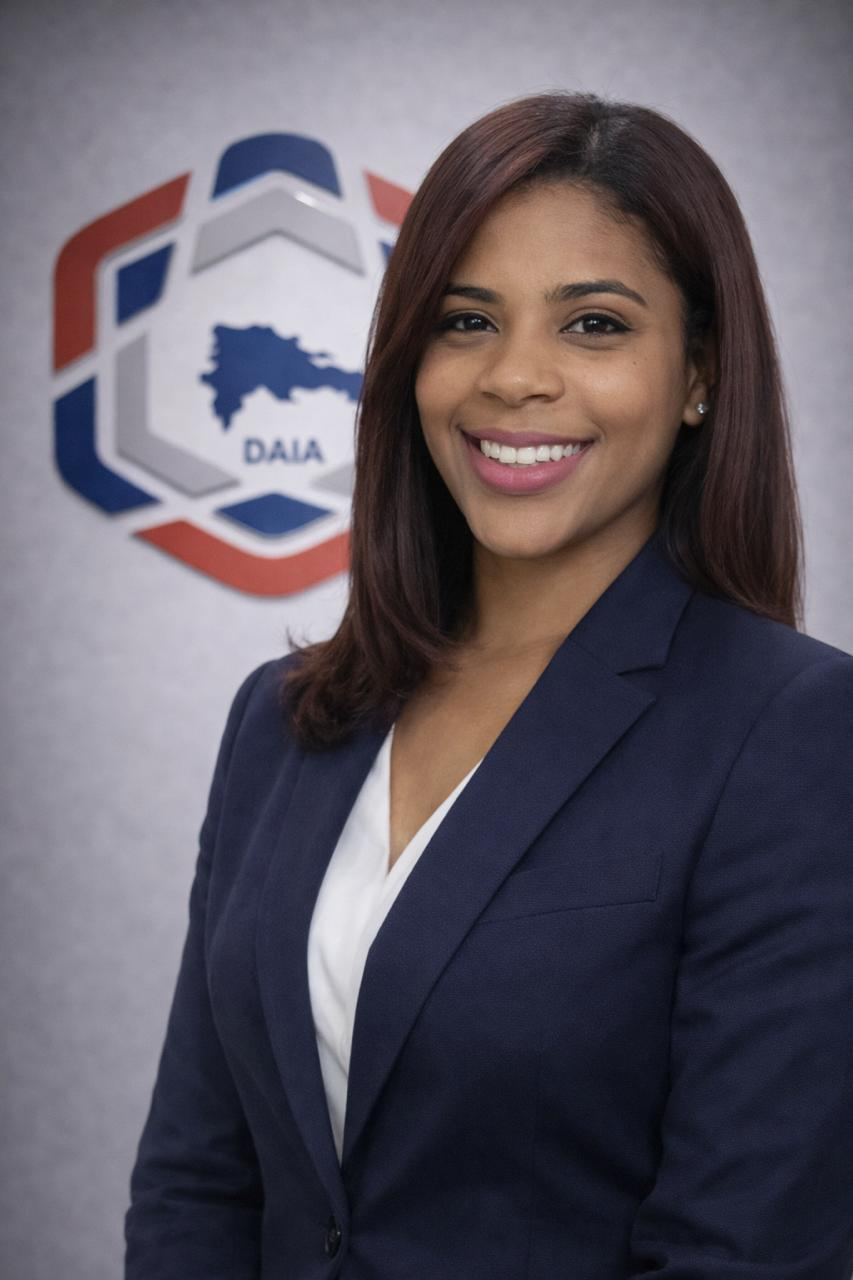
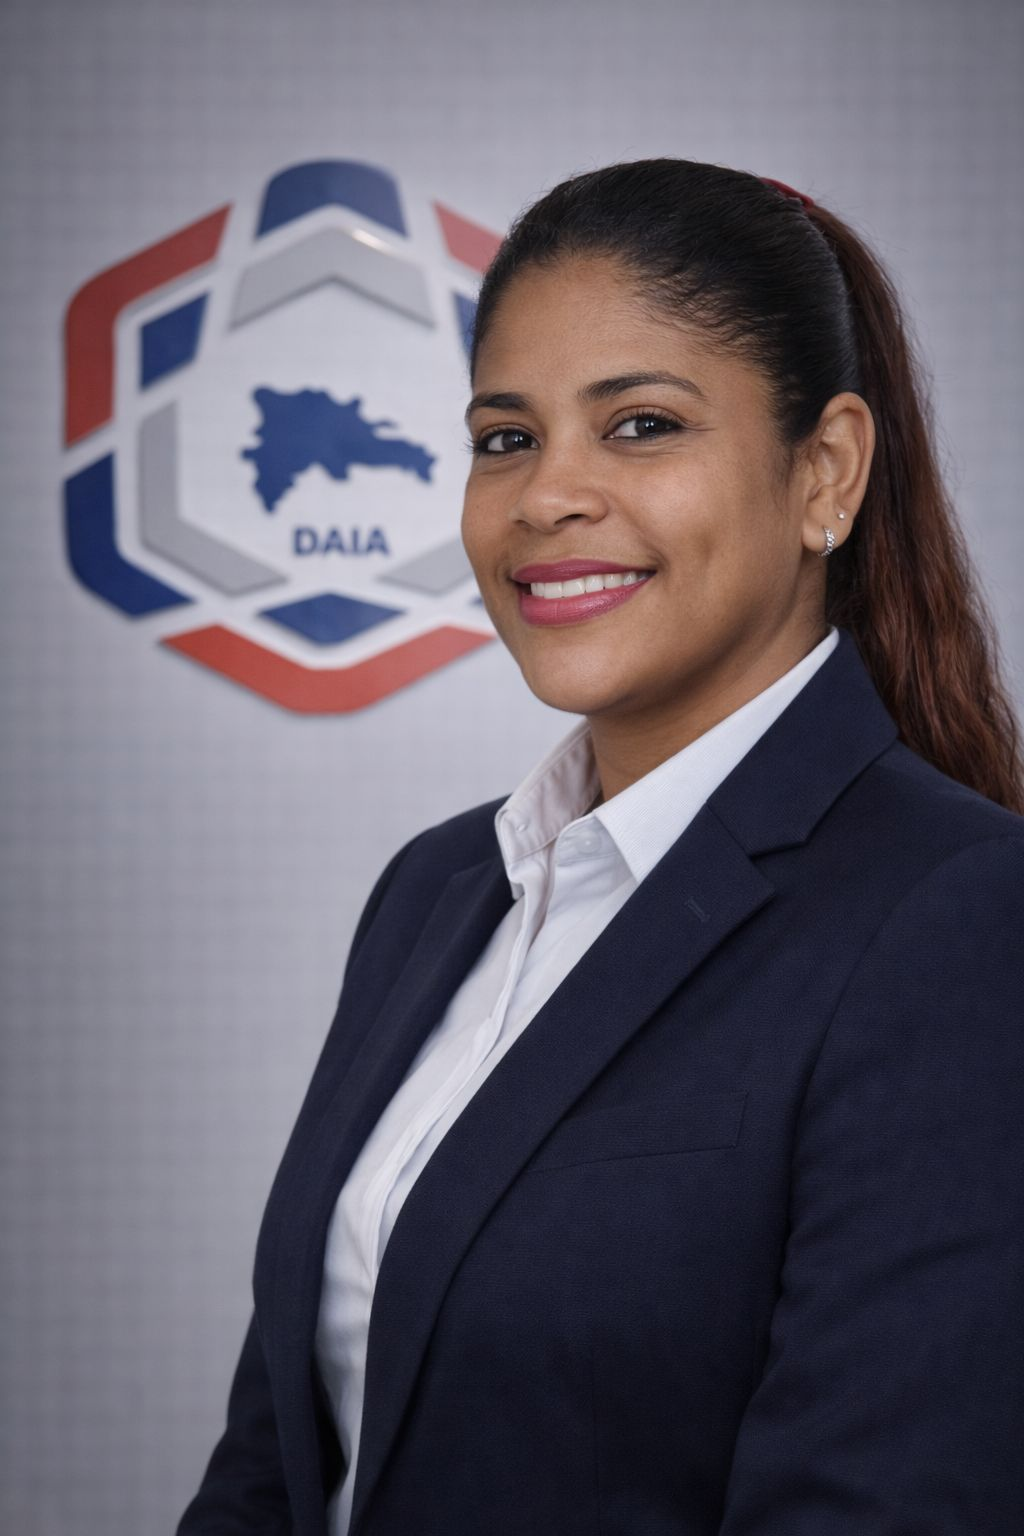
Fix: Small fixes to the landing page

diff --git a/src/components/landing/Header.tsx b/src/components/landing/Header.tsx
@@ -13,6 +13,9 @@ import {
   Brain,
   Newspaper,
   NotebookPen,
+  TreePalm,
+  Earth,
+  ShieldCheck,
 } from "lucide-react";
 import { Link, useLocation } from "react-router-dom";
 import { Button } from "@/components/ui/button";
@@ -78,14 +81,14 @@ const Header = () => {
           label: "Isla Intelligence",
           href: "#",
           description: "Smart Destination Insights",
-          icon: Plane,
+          icon: TreePalm,
           comingSoon: true,
         },
         {
           label: "CulturaConnect",
           href: "#",
           description: "Language Through Real Life",
-          icon: Plane,
+          icon: Earth,
           comingSoon: true,
         },
       ],
@@ -98,13 +101,13 @@ const Header = () => {
           href: "#",
           description: "Data-Driven Property Insights",
           icon: Home,
-          comingSoon: true,
+          comingSoon: Brain,
         },
         {
-          label: "Title Trust DR",
+          label: "TitleTrust DR",
           href: "#",
           description: "Secure Digital Ownership Verification",
-          icon: Home,
+          icon: ShieldCheck,
           comingSoon: true,
         },
       ],
@@ -116,28 +119,28 @@ const Header = () => {
       label: "Partners",
       href: "/partners",
       icon: Home,
-      description: "The light moves faster when we move together.",
+      description: "Building the Future Together",
       comingSoon: false,
     },
     {
       label: "Scholarship",
       href: "#",
       icon: Plane,
-      description: "TBA",
+      description: "Empowering Tomorrow’s Leaders",
       comingSoon: true,
     },
     {
       label: "News",
       href: "#",
       icon: Newspaper,
-      description: "TBA",
+      description: "Updates from DAIA",
       comingSoon: true,
     },
     {
       label: "Blog",
       href: "#",
       icon: NotebookPen,
-      description: "TBA",
+      description: "Insights on AI and Innovation",
       comingSoon: true,
     },
   ];

diff --git a/src/components/landing/Feedback.tsx b/src/components/landing/Feedback.tsx
@@ -4,7 +4,7 @@ import { ScrollAnimation } from "@/hooks/useScrollAnimation";
 
 import alvinNoel from "@/assets/feedback/alvin-noel.jpeg";
 import joseMiguel from "@/assets/feedback/jose-miguel.jpeg";
-import mariolis from "@/assets/feedback/mariolis.jpeg";
+import mariolisGalvez from "@/assets/feedback/mariolis-galvez.jpeg";
 
 const testimonials = [
   {
@@ -12,17 +12,17 @@ const testimonials = [
     name: "Alvin Noel Morillo",
     role: "English Student",
     avatar: alvinNoel,
-    content: `“Honestly, this program really helped me get comfortable speaking English. The exercises were easy to follow, and I actually started feeling confident after a few weeks.”`,
+    content: `Honestly, this program really helped me get comfortable speaking English. The exercises were easy to follow, and I actually started feeling confident after a few weeks.`,
     rating: 5,
     rotation: "md:rotate-[-4deg] md:translate-y-4",
     hoverRotation: "hover:md:rotate-[-2deg] hover:-translate-y-2",
   },
   {
     id: 2,
-    name: "Mariolis",
+    name: "Mariolis Gálvez Belen",
     role: "English Student",
-    avatar: mariolis,
-    content: `“Professor Dorismon makes learning fun. I wasn’t expecting to enjoy grammar this much, but his way of explaining things just clicks.”`,
+    avatar: mariolisGalvez,
+    content: `Professor Dorismon makes learning fun. I wasn’t expecting to enjoy grammar this much, but his way of explaining things just clicks.`,
     rating: 5,
     rotation: "md:scale-105 z-10",
     hoverRotation: "hover:md:scale-110 hover:-translate-y-3",
@@ -33,7 +33,7 @@ const testimonials = [
     role: "English Student",
     avatar: joseMiguel,
     content:
-      `“I liked that the lessons were practical. I can actually use what I learned in real conversations now. Definitely worth it.”`,
+      `I liked that the lessons were practical. I can actually use what I learned in real conversations now. Definitely worth it.`,
     rating: 5,
     rotation: "md:rotate-[4deg] md:translate-y-4",
     hoverRotation: "hover:md:rotate-[2deg] hover:-translate-y-2",

diff --git a/src/components/landing/Stats.tsx b/src/components/landing/Stats.tsx
@@ -242,7 +242,7 @@ const Stats = () => {
           <div className="flex items-center gap-4 mb-8">
             <div className="flex-1 h-px bg-border" />
             <p className="text-xs text-muted-foreground whitespace-nowrap font-normal">
-              Adopted by renowned enterprises such as
+              Our Infrastructure Partners
             </p>
             <div className="flex-1 h-px bg-border" />
           </div>